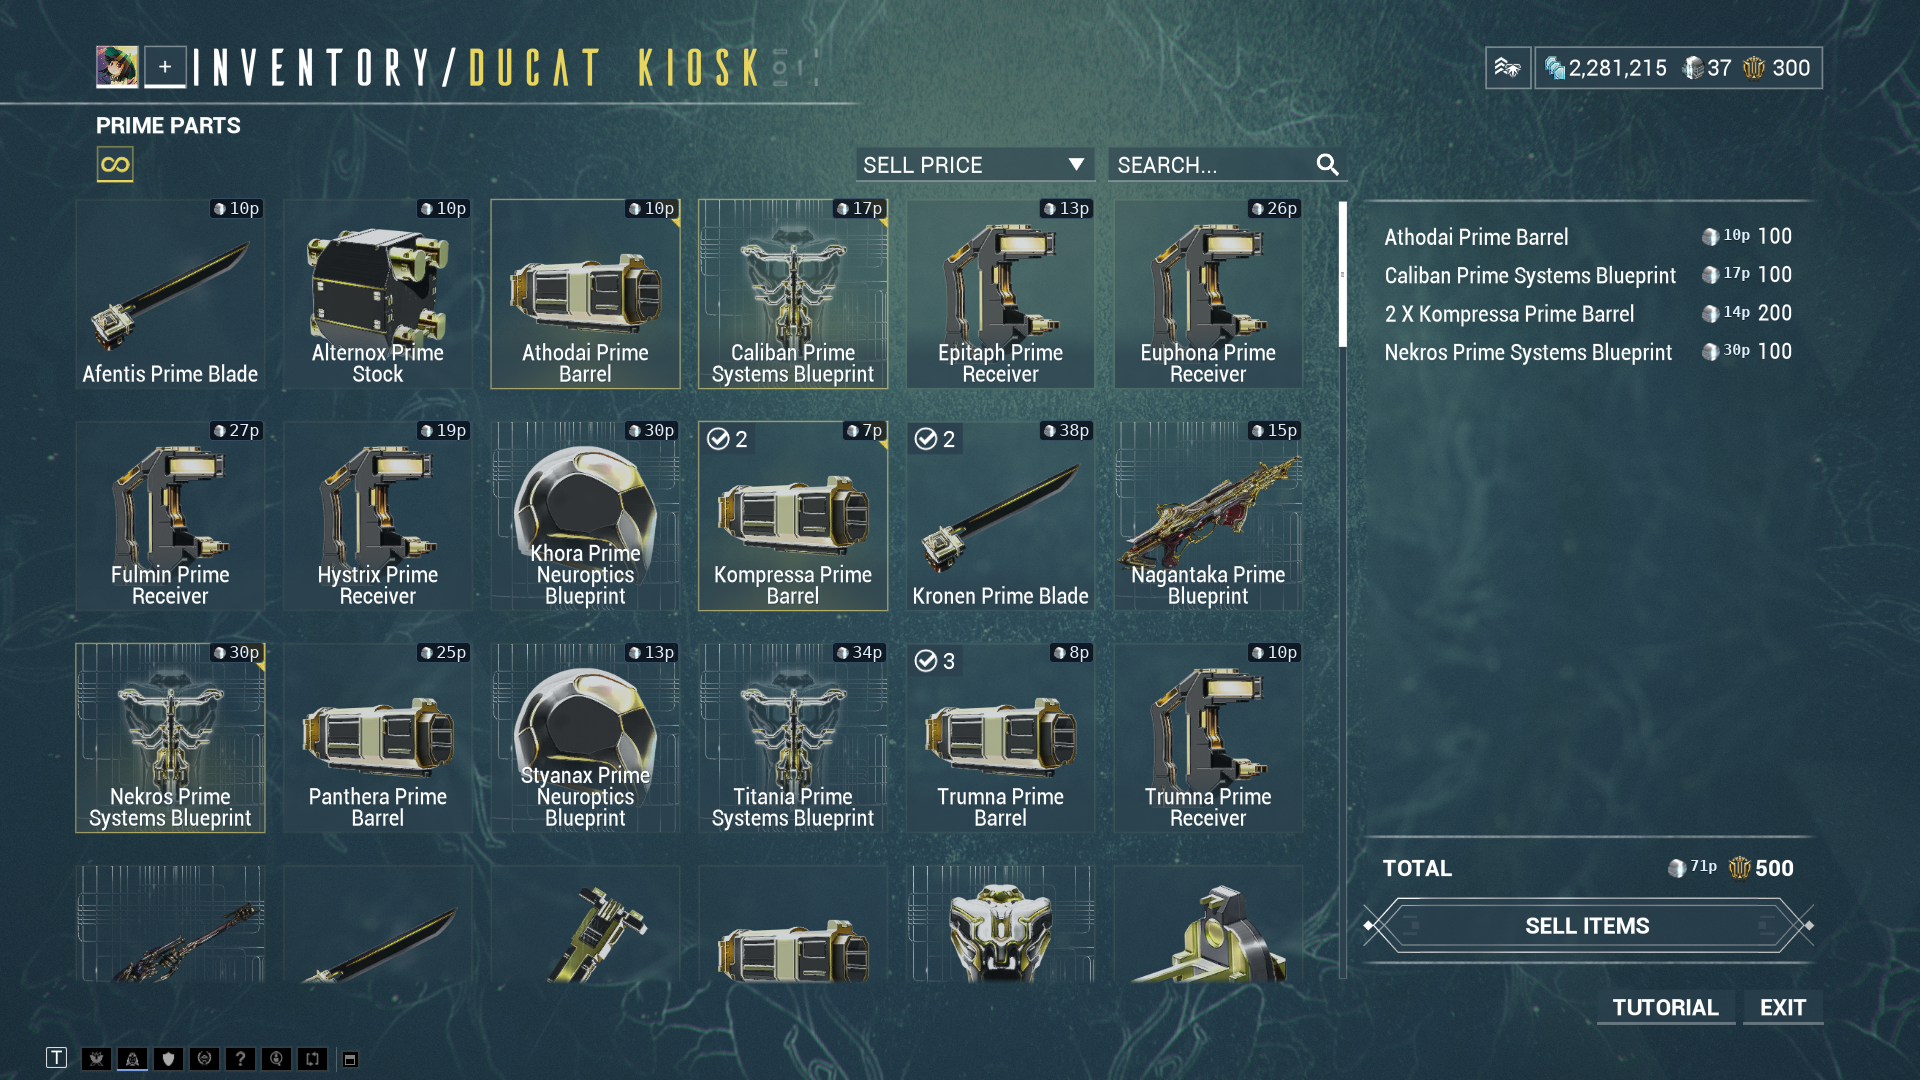
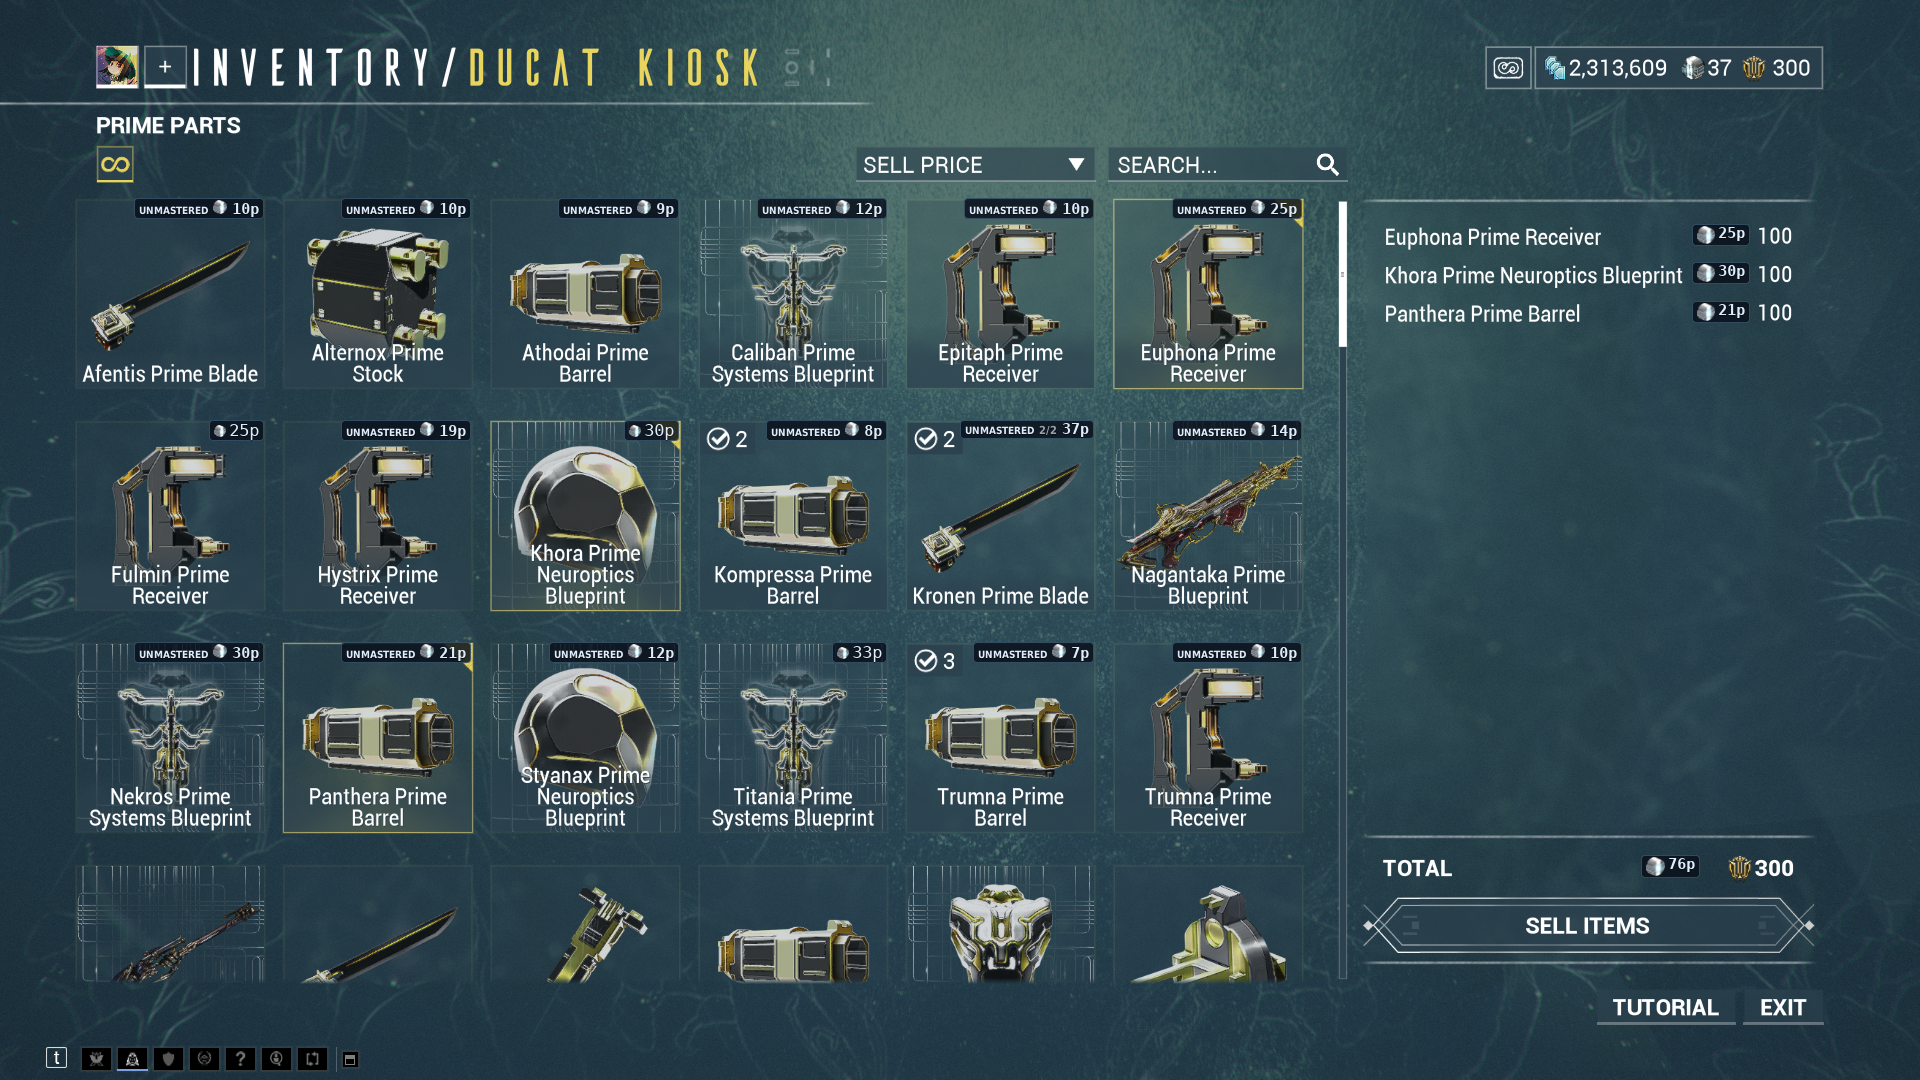
docs: describe mastery marks on the reward and kiosk overlays
The README's line about marking what a player still needs for mastery
predated the marks, the reward research notes still listed
mastery_relevant as an open problem, and nothing described the marks
themselves.

The changelog adds the reward slip marks, the kiosk strips and the
Settings switch under Added, and the reward overlay's extra 24 pixels
under Changed. Its slip entry says why a Lex Prime part can read
Unmastered Aklex: Akbronco, Aklex, Akmagnus and Akvasto Prime each take
two of their single Prime, so a part of a single you have mastered or
built still counts while you hold fewer than two and have neither
mastered nor built the Ak. The README says what a slip and a kiosk tile
now show, that Ak case among it, and why anything beyond Mastered needs
the inventory Full access syncs, and its access section says that
turning the switch off returns slips to their ownership line and tiles
to their plain price. The kiosk screenshot now shows the strips, and its
description says so. The research notes move mastery_relevant to
Settled and name the recipe index and the ledger that answer it.

docs/specs/kiosk-overlay.md adds the strip as a fourth feature and
covers where its counts and status come from, the width of its
recognition mask, its geometry beside the price chip's, the three fit
tiers and what DejaVu Sans Condensed fits in each, and two edge cases:
marks off against no live inventory, and a held count of 100 or more.
Its testing notes add the strip's tier fitting.

diff --git a/docs/specs/kiosk-overlay.md b/docs/specs/kiosk-overlay.md
@@ -6,6 +6,10 @@ Show platinum values over Warframe's in-game Ducat Kiosk screen (InventoryTest.s
 1. A small chip at each grid tile's top-right corner with the item's platinum price.
 2. A platinum icon + value beside each basket row's ducat number.
 3. A platinum icon + total value left of the TOTAL row's ducat number.
+4. In place of a tile's chip, one strip for a part of an item the player has not
+   mastered, built or started building: that the item is unmastered and what the part
+   sells for, plus how many of the part is held against how many are needed, when more
+   than one is needed and the strip has room for it.
 
 Visual style follows the approved kiosk screenshot (`../screenshots/ducat-kiosk.png`):
 overlay digits match the game's own numeral size (16px total row / 15px basket rows at
@@ -64,6 +68,17 @@ the next poll retries. This prevents transient unreadable frames from tearing do
   Fallback: `MarketPriceCache::get`.
 - Owned count: not published. `CellChip` and `BasketChip` carry a name and a platinum figure
   only, so the ✓N badge on screen is the game's own.
+- Mastery: `CellChip.mastery` (`held`, `uses`) from the mastery ledger
+  (`crates/warframe-acquisition/src/mastery.rs`), joined through the Prime recipe index
+  (`CatalogIndex::part_parent`, catalog.rs) that says which recipe slot a part fills.
+  Mastery is permanent but held, built and pending parts are not, so a saved collection
+  can prove an item is mastered and never that it still needs parts: strips need this
+  run's inventory. `KioskView.mastery_status` is `live` with live facts, `unavailable`
+  with a saved collection or before this run's first sync, and `off` when the stored
+  preference turns marks off. Only `live` draws strips.
+- Strip recognition mask: `strip_mask_width_1080(held)` (`kiosk_geometry.rs`), the tile
+  width less the badge clearance for the held count, so the mask covers the strip's full
+  width and never the badge beside it.
 
 ### Geometry
 
@@ -82,6 +97,8 @@ asserted by the calibration tests:
 | Basket rows | first digit baseline y=243, 38⅓px pitch, overlay pair right edge x=1750 |
 | Total row | digit baseline y=875, overlay pair right edge x=1700 |
 | Grid pane | clip edge y=983; tracked strip x=70..1310, y=193..983 |
+| Price chip | 100px wide, anchored at the tile's top-right corner |
+| Mastery strip | same anchor, `190 - 51`px wide, or `190 - 63`px when held >= 10 |
 
 ### Rendering
 
@@ -90,6 +107,27 @@ asserted by the calibration tests:
   `capabilities/default.json`).
 - One window spans the whole game window rect (unlike reward-overlay's card-sized window):
   chips are absolutely positioned DOM nodes at fraction coordinates over the full screen.
+
+### Mastery strips
+
+- A strip reuses the chip's plate, anchor and font, so a tile reads in the corner it
+  always did, and spends the room to the left instead. The game draws its owned badge
+  (a check and a count) in the tile's top-left corner and a strip anchored at the
+  top-right shares the tile with it, so the strip's max width is the tile width less
+  how far the badge's glyphs reach: 51 design px at one digit, 63 at two, the second
+  digit being about 12px wider (`BADGE_CLEARANCE_1080`, `BADGE_CLEARANCE_TWO_DIGITS_1080`).
+- Three fit tiers, chosen by measurement rather than by guess: which fonts are
+  installed decides how wide the strip's own type came out, so the strip measures its
+  box and drops detail while `scrollWidth` exceeds `clientWidth`. Tier 1 is the word, the
+  held/uses fraction (only when more than one copy is needed) and the platinum mark with
+  the price; tier 2 drops the mark; tier 3 drops the fraction too. The word and the price
+  are the reason the strip exists and never drop.
+- In DejaVu Sans Condensed, the stack's fallback when Liberation Sans Narrow is missing, a
+  part needed once keeps the platinum mark up to a two-digit price, and a part needed more
+  than once keeps its fraction up to a two-digit price while fewer than ten are held.
+  Anything longer comes down to the word and the price, which is why the strip measures.
+- A strip stands in for the price chip rather than joining it, because two readings in
+  one corner of a 190px tile is one too many.
 
 ### Scroll sync
 
@@ -135,6 +173,13 @@ flag stops the poller; a close arriving during OCR discards that in-flight resul
   game's own HUD scaling convention.
 - **Kiosk opened while a reward overlay is active**: independent windows and state machines can
   coexist, although the game does not normally present both screens together.
+- **Marks off, or nothing behind them**: no strip is drawn either way, and only the
+  `unavailable` case says so, with one line over the grid's header reading "Mastery: no
+  live inventory", so marks that are off and marks with no inventory behind them do not
+  read the same.
+- **A held count of 100 or more**: the strip keeps the two-digit clearance, so its left
+  edge can meet the badge's third digit. A third clearance would leave less room than the
+  word and a three-digit price need.
 
 ## Non-goals
 
@@ -149,5 +194,6 @@ flag stops the poller; a close arriving during OCR discards that in-flight resul
   settled absolute offsets, capture selection, and external-close cancellation.
 - OCR regression tests use committed fixture PNGs and shell out to Tesseract; CI installs its
   English language data.
-- Frontend tests cover epoch replacement, numeric scroll accumulation, fades, and basket totals.
+- Frontend tests cover epoch replacement, numeric scroll accumulation, fades, basket totals,
+  and the mastery strip's tier fitting.
 - Manual verification uses the live game under umu/Proton on Sway.

diff --git a/README.md b/README.md
@@ -21,9 +21,14 @@ No Overwolf, no account, no telemetry.**
 
 See platinum and ducats under each reward the moment it appears. TennoScope sees the
 reward arrive in `EE.log`, reads the cards with Tesseract and draws the values under the
-row. It also marks what you own, what you are missing and what you still need for mastery.
-It prices the whole squad's relic pool using sellers who are in game right now, without
-taking focus from the game.
+row. Each Prime part's slip also shows whether you have mastered the Prime it builds:
+mastered, built and at what rank, in the foundry, or still unmastered, with the set behind
+it drawn as part silhouettes and a ruled edge on the parts you are missing. A Lex, Bronco,
+Magnus or Vasto Prime part keeps counting toward the Ak pistol that takes two of them, so
+after you master a Lex Prime its parts can read "Unmastered Aklex". Those marks need the
+inventory Full access syncs, so on Overlay access a slip can vouch only for what you have
+already mastered and shows a dash otherwise. It prices the whole squad's relic pool using
+sellers who are in game right now, without taking focus from the game.
 
 ![The reward overlay on a Warframe Void Fissure reward screen, with a platinum figure, a ducat figure and an owned or not owned line under each card](docs/screenshots/reward-overlay.png)
 
@@ -35,9 +40,13 @@ taking focus from the game.
 
 Before you trade a Prime part for ducats, check what it is worth in platinum. TennoScope
 puts a platinum figure on every tile of the grid, carries each pick into the sell list, and
-totals the sell list as it fills.
+totals the sell list as it fills. On a tile for a part of an item you have not mastered,
+built or started building, the figure gives way to one strip: that the item is unmastered
+and what the part sells for, plus, when you need the part more than once and the strip has
+room, how many you hold against how many you need. Strips come from the same live
+inventory, so on Overlay access every tile keeps its plain price.
 
-![The Ducat Kiosk overlay, with a platinum figure on every Prime part tile, the picked items and their values in a sell list on the right, and a running total at the bottom](docs/screenshots/ducat-kiosk.png)
+![The Ducat Kiosk overlay: a platinum figure on each Prime part tile, an Unmastered strip with the price on tiles for parts of items not yet mastered, the picked items and their values in a sell list on the right, and a running total at the bottom](docs/screenshots/ducat-kiosk.png)
 
 <div align="center">
 
@@ -83,6 +92,10 @@ reading for the reward advisor, or go Full for automatic inventory sync. Nothing
 starts until you confirm, and no mode ever writes to the game, automates input,
 or sends telemetry. Change your mind later and the lower mode retires everything it
 no longer permits before the switch completes.
+
+Mastery marks on the reward and kiosk overlays are a separate switch in Settings, on by
+default. Turn them off and reward slips go back to their owned line and kiosk tiles to
+their plain price.
 
 ![The one-time setup screen, with Companion, Overlay and Full as the three access levels, Full selected, and the list of what Full adds](docs/screenshots/warframe-access.png)
 

diff --git a/CHANGELOG.md b/CHANGELOG.md
@@ -14,6 +14,39 @@ see the difference.
 
 ## [Unreleased]
 
+### Added
+
+- **Reward slips show whether you have mastered the Prime each part builds.** Each
+  Prime part's slip on the reward overlay and the Rewards page ends in a mastery mark:
+  mastered, built and at what rank, in the foundry, or unmastered, and a dash where the
+  app cannot tell. An unmastered slip draws the Prime's set as part silhouettes, held
+  copies solid and missing ones dimmed, and rules its edge when you are short of the
+  part, twice when it is the last part the set needs. Akbronco, Aklex, Akmagnus and
+  Akvasto Prime each take two of their single Prime, so once you have mastered or
+  built a Lex Prime, its parts still count while you hold fewer than two and have
+  neither mastered nor built the Aklex: their slips read "Unmastered Aklex", draw the
+  Aklex's set and never rule twice. Mastery is permanent but held, built and pending
+  parts are not, so the marks are read from this run's inventory: on Overlay access,
+  or before the first Full sync of a session, only "mastered" can appear and every
+  other mark is a dash.
+- **Kiosk tiles mark parts of items you have not mastered.** A tile for a part of an
+  item you have not mastered, built or started building gives its price chip over to
+  one strip that says the item is unmastered and what the part sells for, adding how
+  many of the part you hold against how many you need when you need it more than once
+  and the strip has room for it. The strip keeps clear of the game's own owned badge,
+  gives up a further 12px for a held count of ten or more, and drops its detail until
+  the word and the price both fit. With no live inventory no strip is drawn at all and
+  one line over the grid reads "Mastery: no live inventory".
+- **A switch for the mastery marks.** Settings > Preferences carries "Mastery marks
+  on overlays", on by default. Turning it off stops both overlays drawing marks from
+  their next update, without a restart.
+
+### Changed
+
+- **The reward overlay is 24px taller.** Its window was 156 of 1080 design pixels and
+  is now 180, which is what the set row at the foot of a slip needs. The window still
+  hangs directly below the game's reward cards, so the extra height never covers them.
+
 ### Fixed
 
 - **An update offer survives a restart.** The daily check throttle skipped the

diff --git a/docs/research/relic-reward-resolution.md b/docs/research/relic-reward-resolution.md
@@ -352,11 +352,6 @@ Paris Prime Lower Limb is `PrimeBowLowerLimb`, Orthos Prime Blade is `PrimePolea
 Neuroptics is `XakuPrimeHelmet`, Fang Prime Handle is `PrimeFangHandle`, Vadarya Prime Stock is
 `PrimeLightningGunStock`.
 
-## Still open
-
-- `mastery_relevant` on a reward card is always false. Doing it properly needs mastery tracking the
-  app does not collect.
-
 ## Settled
 
 - The chain published a correct overlay on a live reward screen on 2026-07-27, after the poller
@@ -370,4 +365,12 @@ Neuroptics is `XakuPrimeHelmet`, Fang Prime Handle is `PrimeFangHandle`, Vadarya
 - Separating the title from the card art with `-normalize -threshold 74% -negate` takes all twelve
   labelled cards to an exact read. The earlier claim that thresholding made things worse was wrong;
   it was tried without `-normalize`, which is the step that makes one cutoff hold across card art.
+- `mastery_relevant` on a reward card was always false, and doing it properly did need mastery
+  tracking the app did not collect. It does now: the Prime recipe index
+  (`crates/warframe-acquisition/src/catalog.rs`) says which slot of a build each part fills and how
+  many copies a build takes, and the mastery ledger
+  (`crates/warframe-acquisition/src/mastery.rs`) joins that against holdings and this run's facts to
+  answer with a mark per card: mastered, built at a rank, in the foundry, unmastered with the set
+  behind it, or unknown. Mastery is permanent and every other state is not, so a saved collection
+  can prove a card's item is mastered and can never prove it still needs parts.
 
